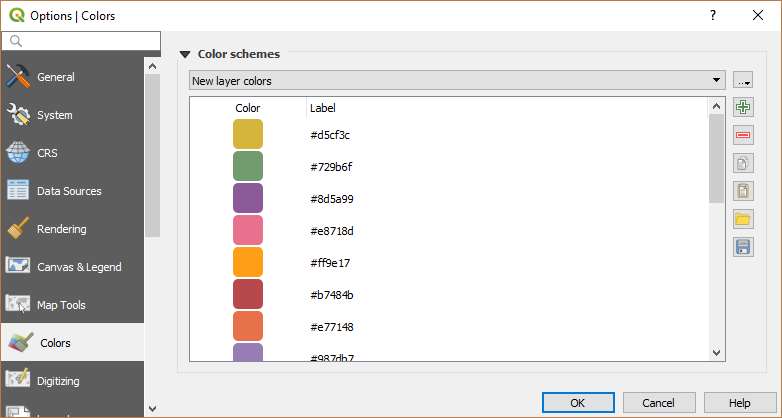
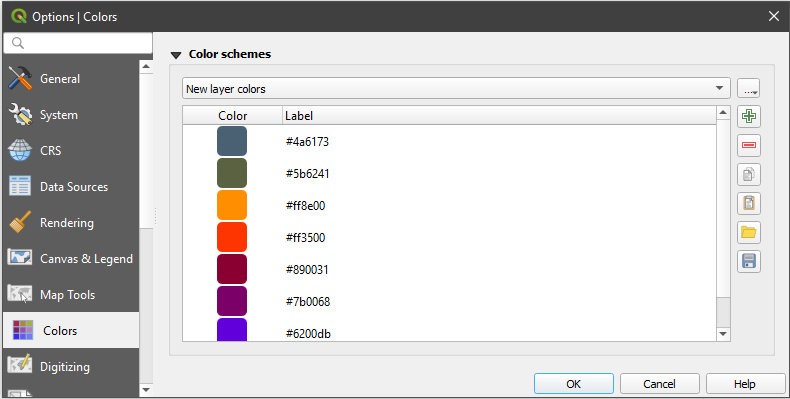
Improve global and project colors settings (#3340)
Add tip about using project colors
Update and add colors screenshots and description

Changed region(s): [[0.0, 0.0, 1.0, 1.0]]

diff --git a/source/docs/user_manual/introduction/qgis_configuration.rst b/source/docs/user_manual/introduction/qgis_configuration.rst
@@ -88,7 +88,7 @@ General Settings
   if a newer version is released;
 * |checkbox| :guilabel:`Modeless data source manager dialog` to keep the
   :ref:`data source manager <datasourcemanager>` dialog opened and allow
-  interaction with QGIS interface while adding layers to project; 
+  interaction with QGIS interface while adding layers to project;
 * |checkbox| :guilabel:`Use native color chooser dialogs` (see :ref:`color-selector`).
 
 .. _projectfiles_options:
@@ -479,11 +479,12 @@ This menu allows you to create or update palettes of colors used throughout the
 application in the :ref:`color selector widget <color_widget>`. You can choose
 from:
 
-* :guilabel:`Recent colors` showing recently used colors;
-* :guilabel:`Standard colors`, the default palette of colors;
-* :guilabel:`Project colors`, a set of colors specific to the current project;
+* :guilabel:`Recent colors` showing recently used colors
+* :guilabel:`Standard colors`, the default palette of colors
+* :guilabel:`Project colors`, a set of colors specific to the current project
+  (see :ref:`default_styles_properties` for more details)
 * :guilabel:`New layer colors`, a set of colors to use by default when new
-  layers are added to QGIS;
+  layers are added to QGIS
 * or custom palette(s) you can create or import using the :guilabel:`...`
   button next to the palette combobox.
 
@@ -493,14 +494,16 @@ the color button drop-down. Custom palettes can also be added to this widget
 thanks to the :guilabel:`Show in Color Buttons` option.
 
 For any of the palettes, you can manage the list of colors using the set of
-tools next to the frame, ie: 
+tools next to the frame, ie:
 
-* add or remove colors;
-* copy or paste colors;
-* import or export the set of colors from/to :file:`.gpl` file.
+* |signPlus| :guilabel:`Add` or |signMinus| :guilabel:`Remove` color
+* |editCopy| :guilabel:`Copy` or |editPaste| :guilabel:`Paste` color
+* |fileOpen| :guilabel:`Import` or |fileSave| :guilabel:`Export` the set of colors
+  from/to :file:`.gpl` file.
 
 Double-click a color in the list to tweak or replace it in the :ref:`Color
-Selector <color-selector>` dialog.
+Selector <color-selector>` dialog. You can also rename it by double-clicking
+in the :guilabel:`Label` column.
 
 .. _figure_colors_options:
 
@@ -550,7 +553,7 @@ This tab helps you configure general settings when :ref:`editing vector layer
 * :guilabel:`Snapping marker color`
 * |checkbox| :guilabel:`Show snapping tooltips` such as name of the layer whose
   feature you are about to snap. Helpful when multiple features overlap.
-* |checkbox| :guilabel:`Enable snapping on invisible features` 
+* |checkbox| :guilabel:`Enable snapping on invisible features`
 
 
 **Vertex markers**
@@ -958,16 +961,60 @@ settings by configuring the datum transformation preferences to apply in the
 current project. As usual, these override any corresponding global settings.
 See :ref:`datum_transformation` for more details.
 
+.. _default_styles_properties:
+
 Default Styles Properties
 -------------------------
 
 The :guilabel:`Default Styles` tab lets you control how new layers will be
-drawn when they do not have an existing :file:`.qml` style defined. You can
-also set the default transparency level for new layers and whether symbols
-should have random colors assigned to them.
+drawn in the project when they do not have an existing :file:`.qml` style
+defined. You can:
+
+* Set default symbols (:guilabel:`Marker`, :guilabel:`Line`, :guilabel:`Fill`)
+  to apply depending on the layer geometry type as well as a default
+  :guilabel:`Color Ramp`
+* Apply a default :guilabel:`Opacity` to new layers
+* |checkbox| :guilabel:`Assign random colors to symbols`, modifying the symbols
+  fill colors, hence avoiding same rendering for all layers.
+
+.. _figure_default_styles:
+
+.. figure:: img/project_default_styles.png
+   :align: center
+
+   Default Styles tab
+
+Using the |styleManager| :guilabel:`Style Manager` button, you can also quickly
+access the :ref:`Style Manager <vector_style_manager>` dialog and configure
+symbols and color ramps.
+
 There is also an additional section where you can define specific colors for the
-running project. You can find the added colors in the drop down menu of the color dialog
-window present in each renderer.
+running project. Like the :ref:`global colors <colors_options>`, you can:
+
+* |signPlus| :guilabel:`Add` or |signMinus| :guilabel:`Remove` color
+* |editCopy| :guilabel:`Copy` or |editPaste| :guilabel:`Paste` color
+* |fileOpen| :guilabel:`Import` or |fileSave| :guilabel:`Export` the set of colors
+  from/to :file:`.gpl` file.
+
+Double-click a color in the list to tweak or replace it in the :ref:`Color
+Selector <color-selector>` dialog. You can also rename it by double-clicking
+in the :guilabel:`Label` column.
+
+These colors are identified as :guilabel:`Project colors` and listed as part of
+:ref:`color widgets <color-selector>`.
+
+.. tip:: **Use project colors to quickly assign and update color widgets**
+
+  Project colors can be refered to using their label and the color widgets
+  they are used in are bound to them. This means that instead of repeatedly
+  setting the same color for many properties and, to avoid a cumbersome update
+  you can:
+
+  #. Define the color as a project color
+  #. Apply it using the ``project_color('color_label')`` expression in 
+     color :ref:`data defined override widget <data_defined>`
+  #. Update the color once in a :guilabel:`Project colors` list
+  #. And the change is reflected EVERYWHERE.
 
 Data Sources Properties
 -----------------------
@@ -992,13 +1039,13 @@ In the :guilabel:`Data Sources` tab, you can:
   To speed up project loading by skipping data checks. Useful in QGIS Server context
   or in projects with huge database views/materialized views. The extent of layers
   will be read from the QGIS project file (instead of data sources) and when
-  using the PostgreSQL provider the primary key unicity will not be 
+  using the PostgreSQL provider the primary key unicity will not be
   checked for views and materialized views.
 
 .. _project_layer_capabilities:
 
 * Configure the :guilabel:`Layers Capabilities`, i.e.:
-  
+
   * Set (or disable) which layers are ``identifiable``, i.e. will respond to the
     :ref:`identify tool <identify>`. By default, layers are set queryable.
   * Set whether a layer should appear as ``read-only``, meaning that
@@ -1174,6 +1221,10 @@ and :guilabel:`Load` them into another QGIS installation.
 .. |customProjection| image:: /static/common/mActionCustomProjection.png
    :width: 1.5em
 .. |doubleSpinBox| image:: /static/common/doublespinbox.png
+   :width: 1.5em
+.. |editCopy| image:: /static/common/mActionEditCopy.png
+   :width: 1.5em
+.. |editPaste| image:: /static/common/mActionEditPaste.png
    :width: 1.5em
 .. |fileOpen| image:: /static/common/mActionFileOpen.png
    :width: 1.5em
